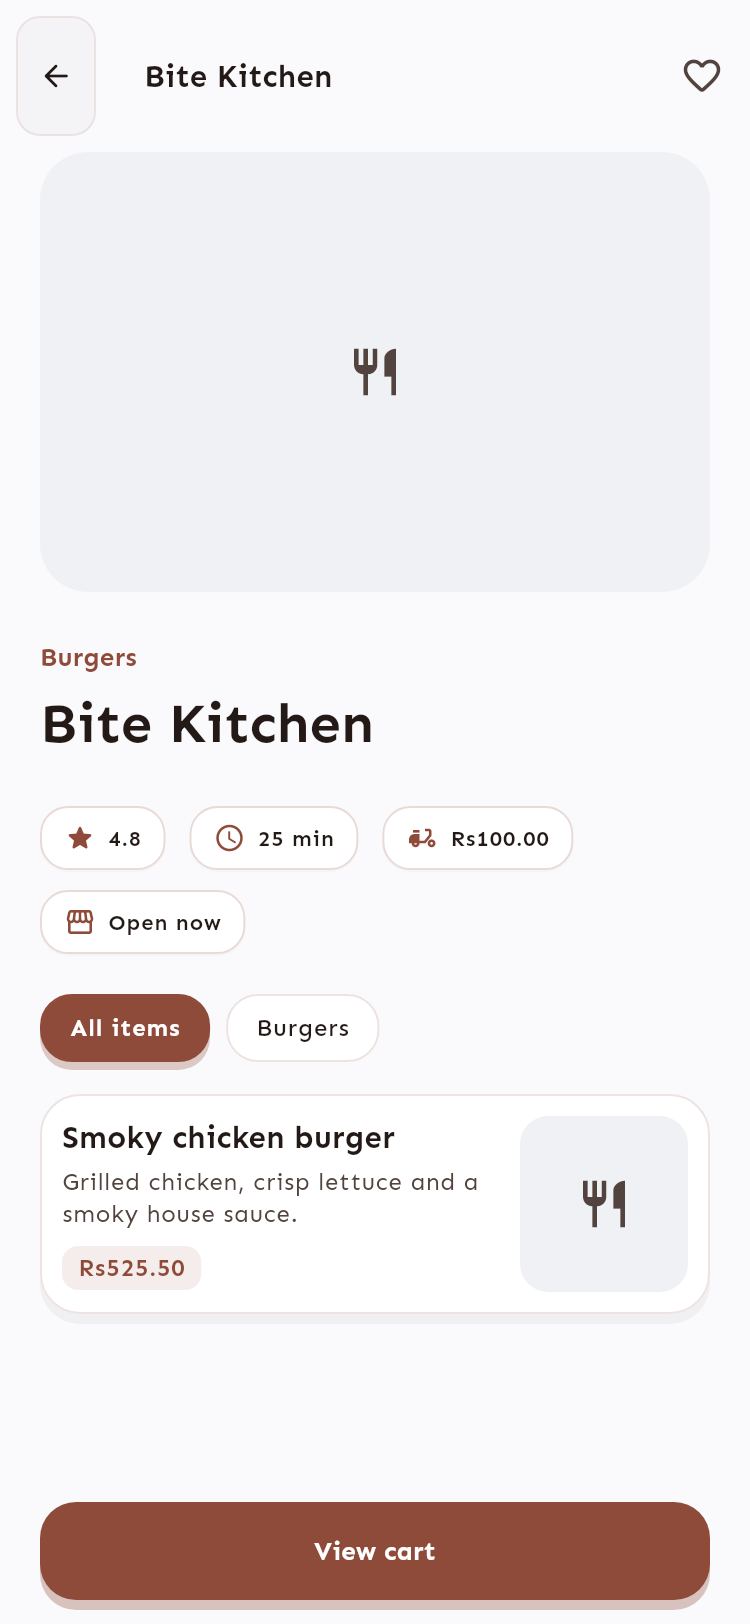
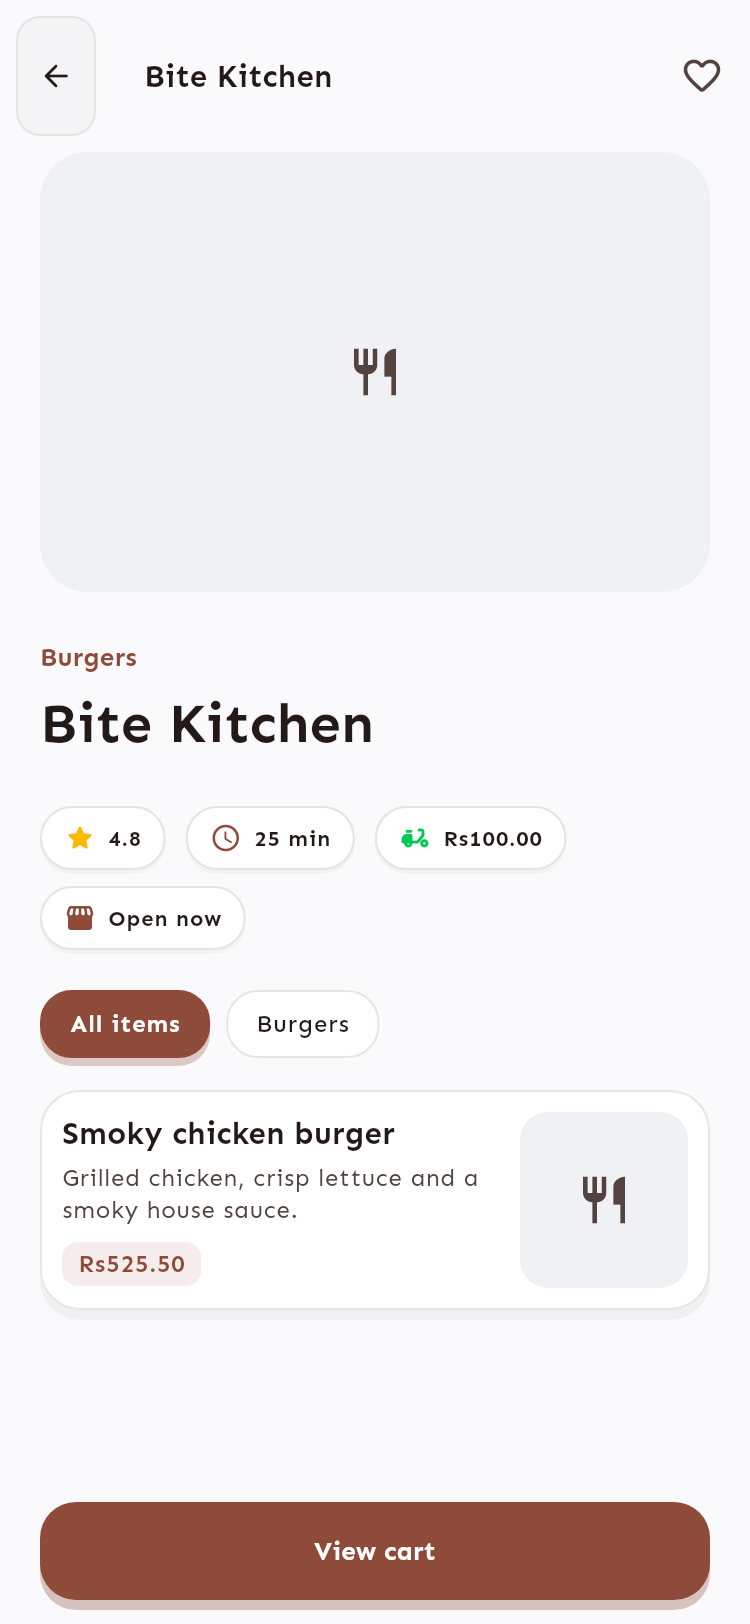
feat(addresses-and-restaurants): add jumping pin physics with ground shadow and modernize restaurant service info badges

Changed region(s): [[0.0613, 0.4926, 0.7667, 0.8005], [0.092, 0.4926, 0.1227, 0.5234]]

diff --git a/lib/features/restaurants/widgets/restaurant_service_info.dart b/lib/features/restaurants/widgets/restaurant_service_info.dart
@@ -13,57 +13,91 @@ class RestaurantServiceInfo extends StatelessWidget {
     required this.status,
   });
   final String rating, time, fee, status;
+
   @override
-  Widget build(BuildContext context) => Wrap(
-    spacing: 12.r,
-    runSpacing: 10.r,
-    children: [
-      _ServiceBadge(icon: Icons.star_rounded, label: rating),
-      _ServiceBadge(icon: Icons.schedule_outlined, label: time),
-      _ServiceBadge(icon: Icons.delivery_dining, label: fee),
-      _ServiceBadge(icon: Icons.storefront_outlined, label: status),
-    ],
-  );
+  Widget build(BuildContext context) {
+    final colors = context.appColors;
+
+    return Wrap(
+      spacing: 10.w,
+      runSpacing: 8.h,
+      children: [
+        _ServiceBadge(
+          icon: Icons.star_rounded,
+          label: rating,
+          iconColor: const Color(0xFFFFB800),
+        ),
+        _ServiceBadge(
+          icon: Icons.access_time_rounded,
+          label: time,
+          iconColor: colors.primary,
+        ),
+        _ServiceBadge(
+          icon: Icons.delivery_dining_rounded,
+          label: fee,
+          iconColor: const Color(0xFF00C853),
+        ),
+        _ServiceBadge(
+          icon: Icons.storefront_rounded,
+          label: status,
+          iconColor: colors.primary,
+        ),
+      ],
+    );
+  }
 }
 
 class _ServiceBadge extends StatelessWidget {
-  const _ServiceBadge({required this.icon, required this.label});
+  const _ServiceBadge({
+    required this.icon,
+    required this.label,
+    this.iconColor,
+  });
   final IconData icon;
   final String label;
+  final Color? iconColor;
+
   @override
-  Widget build(BuildContext context) => DecoratedBox(
-    decoration: BoxDecoration(
-      color: context.appColors.surfaceContainerLow,
-      borderRadius: BorderRadius.circular(14).r,
-      border: Border.all(
-        color: context.appColors.outlineVariant.withValues(alpha: 0.6),
-        width: 1,
-      ),
-      boxShadow: [
-        BoxShadow(
-          color: Colors.black.withValues(alpha: 0.02),
-          blurRadius: 4.r,
-          offset: Offset(0, 1.r),
+  Widget build(BuildContext context) {
+    final colors = context.appColors;
+    final effectiveColor = iconColor ?? colors.primary;
+
+    return DecoratedBox(
+      decoration: BoxDecoration(
+        color: colors.surfaceContainerLow,
+        borderRadius: BorderRadius.circular(16).r,
+        border: Border.all(
+          color: colors.outlineVariant.withValues(alpha: 0.5),
+          width: 1.r,
         ),
-      ],
-    ),
-    child: Padding(
-      padding: const EdgeInsets.symmetric(horizontal: 12, vertical: 8).r,
-      child: Row(
-        mainAxisSize: MainAxisSize.min,
-        children: [
-          Icon(icon, size: 16.r, color: context.appColors.primary),
-          6.horizontalSpace,
-          Flexible(
-            child: AppText(
-              label,
-              style: AppTextStyles.labelSmall(
-                context,
-              ).copyWith(fontWeight: FontWeight.w600),
-            ),
+        boxShadow: [
+          BoxShadow(
+            color: Colors.black.withValues(alpha: 0.03),
+            blurRadius: 6.r,
+            offset: Offset(0, 2.h),
           ),
         ],
       ),
-    ),
-  );
+      child: Padding(
+        padding: EdgeInsets.symmetric(horizontal: 12.w, vertical: 8.h).r,
+        child: Row(
+          mainAxisSize: MainAxisSize.min,
+          children: [
+            Icon(icon, size: 16.r, color: effectiveColor),
+            6.horizontalSpace,
+            Flexible(
+              child: AppText(
+                label,
+                style: AppTextStyles.labelSmall(
+                  context,
+                ).copyWith(fontWeight: FontWeight.w700),
+                maxLines: 1,
+                overflow: TextOverflow.ellipsis,
+              ),
+            ),
+          ],
+        ),
+      ),
+    );
+  }
 }

diff --git a/lib/features/addresses/widgets/address_map_picker.dart b/lib/features/addresses/widgets/address_map_picker.dart
@@ -1,4 +1,6 @@
+import 'package:bite_food_delivery/app/theme/app_text_styles.dart';
 import 'package:bite_food_delivery/core/extensions/theme_extensions.dart';
+import 'package:bite_food_delivery/widgets/app_text.dart';
 import 'package:material_ui/material_ui.dart';
 import 'package:flutter_screenutil/flutter_screenutil.dart';
 import 'package:google_maps_flutter/google_maps_flutter.dart';
@@ -52,14 +54,71 @@ class AddressMapPicker extends StatelessWidget {
             Center(
               child: Padding(
                 padding: EdgeInsets.only(bottom: 24.h),
-                child: AnimatedScale(
-                  scale: isMoving ? 1.2 : 1.0,
-                  duration: const Duration(milliseconds: 150),
-                  child: Icon(
-                    Icons.location_pin,
-                    size: 40.r,
-                    color: colors.primary,
-                  ),
+                child: Column(
+                  mainAxisSize: MainAxisSize.min,
+                  children: [
+                    // Floating "Deliver here" tooltip
+                    AnimatedOpacity(
+                      opacity: isMoving ? 0.0 : 1.0,
+                      duration: const Duration(milliseconds: 180),
+                      child: Container(
+                        padding: EdgeInsets.symmetric(
+                          horizontal: 10.w,
+                          vertical: 3.h,
+                        ).r,
+                        decoration: BoxDecoration(
+                          color: const Color(0xFF141416),
+                          borderRadius: BorderRadius.circular(12).r,
+                          boxShadow: [
+                            BoxShadow(
+                              color: Colors.black.withValues(alpha: 0.22),
+                              blurRadius: 6.r,
+                              offset: Offset(0, 2.h),
+                            ),
+                          ],
+                        ),
+                        child: AppText(
+                          'Deliver here',
+                          style: AppTextStyles.labelSmall(context).copyWith(
+                            color: Colors.white,
+                            fontWeight: FontWeight.w700,
+                            fontSize: 9.sp,
+                          ),
+                        ),
+                      ),
+                    ),
+                    3.verticalSpace,
+                    // Jumping Pin with Spring Bounce
+                    AnimatedContainer(
+                      duration: const Duration(milliseconds: 200),
+                      curve: Curves.easeOutBack,
+                      transform: Matrix4.translationValues(
+                        0,
+                        isMoving ? -12.h : 0,
+                        0,
+                      ),
+                      child: Icon(
+                        Icons.location_pin,
+                        size: 40.r,
+                        color: colors.primary,
+                      ),
+                    ),
+                    // Dynamic Ground Shadow
+                    AnimatedContainer(
+                      duration: const Duration(milliseconds: 200),
+                      curve: Curves.easeOutCubic,
+                      width: isMoving ? 10.r : 16.r,
+                      height: 4.h,
+                      decoration: BoxDecoration(
+                        borderRadius: BorderRadius.all(
+                          Radius.elliptical(isMoving ? 10.r : 16.r, 4.h),
+                        ),
+                        color: Colors.black.withValues(
+                          alpha: isMoving ? 0.16 : 0.42,
+                        ),
+                      ),
+                    ),
+                  ],
                 ),
               ),
             ),
